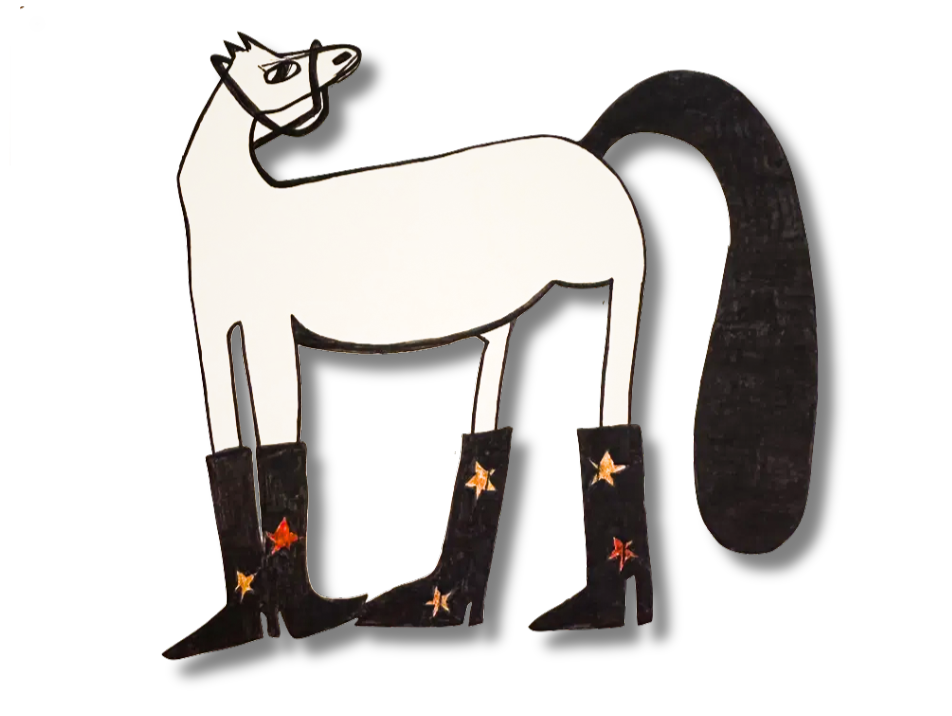
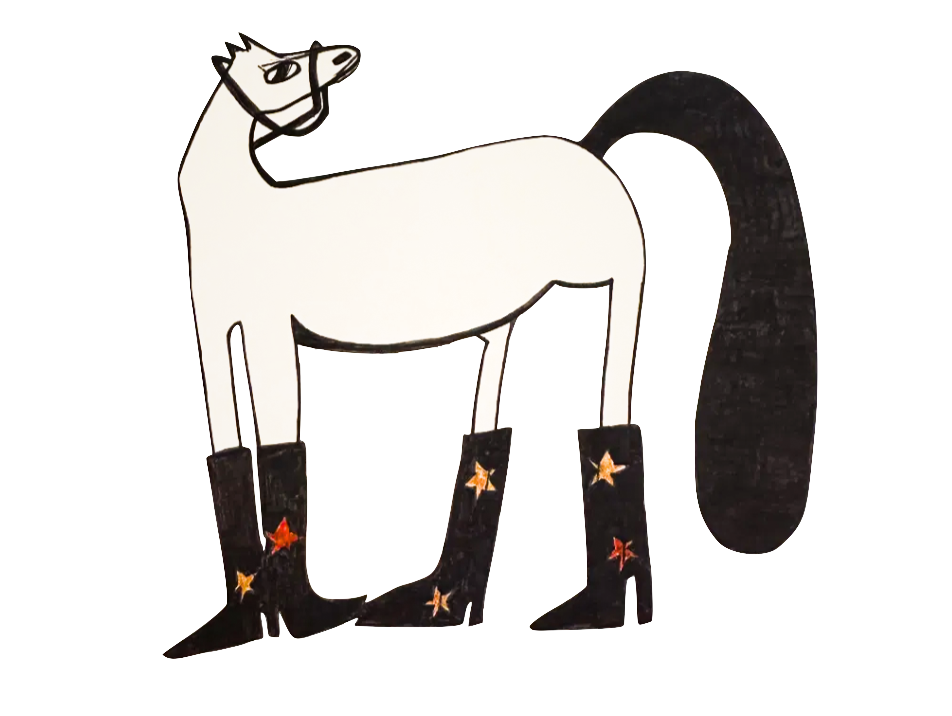
feat: landing page final

diff --git a/src/components/LandingPage.jsx b/src/components/LandingPage.jsx
@@ -1,0 +1,205 @@
+import { useEffect, useState } from "react"
+
+export default function LandingPage({ onEnter }) {
+  const [visible, setVisible] = useState(false)
+
+  useEffect(() => {
+    setTimeout(() => setVisible(true), 100)
+  }, [])
+
+  const fade = (delay = 0) => ({
+    transition: `opacity 900ms ${delay}ms`,
+    opacity: visible ? 1 : 0,
+  })
+
+  return (
+    <div style={{ fontFamily: "'Inter', sans-serif", background: "#F7F7F5", minHeight: "100vh" }}>
+
+      <section style={{
+        minHeight: "100vh",
+        display: "flex",
+        flexDirection: "column",
+        alignItems: "center",
+        justifyContent: "center",
+        textAlign: "center",
+        position: "relative",
+        overflow: "hidden",
+        paddingTop: "8vh",
+      }}>
+
+        <div style={{
+          ...fade(0),
+          position: "absolute",
+          fontSize: "22vw",
+          fontWeight: 800,
+          letterSpacing: "-0.05em",
+          color: "#111",
+          opacity: 0.018,
+          userSelect: "none",
+          pointerEvents: "none",
+          top: "50%",
+          left: "50%",
+          transform: "translate(-50%, -50%)",
+          whiteSpace: "nowrap",
+          lineHeight: 1,
+        }}>
+          DEBRIEF
+        </div>
+
+        <div style={{
+          display: "flex", flexDirection: "column",
+          alignItems: "center", gap: 0,
+          position: "relative", zIndex: 1,
+        }}>
+
+          <div style={{ ...fade(0), marginBottom: 4 }}>
+            <img
+              src="/horse.png"
+              alt=""
+              style={{ width: 96, height: 96, objectFit: "contain", mixBlendMode: "multiply" }}
+            />
+          </div>
+
+          <div style={{ ...fade(150), marginBottom: 28 }}>
+            <span style={{
+              fontWeight: 800, fontSize: 36, color: "#111",
+              letterSpacing: "-0.04em", display: "block",
+            }}>
+              Debrief
+            </span>
+          </div>
+
+          <p style={{
+            ...fade(350),
+            fontSize: 13, color: "#8A8A8A", lineHeight: 1.65,
+            maxWidth: 280, margin: 0,
+          }}>
+            You spend your career building products.<br />
+            Now build a strategy for finding your next one.
+          </p>
+
+          <div style={{ ...fade(550), marginTop: 24 }}>
+            <button
+              onClick={onEnter}
+              style={{
+                background: "none", border: "none", cursor: "pointer",
+                fontFamily: "monospace", fontSize: 10, letterSpacing: "0.12em",
+                textTransform: "uppercase", color: "#8A8A8A", padding: 0,
+                transition: "color 200ms",
+              }}
+              onMouseEnter={e => e.target.style.color = "#111"}
+              onMouseLeave={e => e.target.style.color = "#8A8A8A"}
+            >
+              Get started →
+            </button>
+          </div>
+        </div>
+
+        <div style={{
+          ...fade(900),
+          position: "absolute",
+          bottom: 96,
+          left: "50%",
+          transform: "translateX(-50%)",
+          display: "flex",
+          flexDirection: "column",
+          alignItems: "center",
+          gap: 6,
+        }}>
+          <span style={{
+            fontFamily: "monospace", fontSize: 8, letterSpacing: "0.14em",
+            textTransform: "uppercase", color: "#C4C4BE",
+          }}>scroll</span>
+          <div style={{
+            width: 1, height: 32,
+            background: "linear-gradient(to bottom, #C4C4BE, transparent)",
+          }} />
+        </div>
+      </section>
+
+      <section style={{
+        borderTop: "1px solid #E8E8E4",
+        padding: "96px 48px",
+        maxWidth: 680,
+        margin: "0 auto",
+      }}>
+        <p style={{
+          fontFamily: "monospace", fontSize: 9, letterSpacing: "0.16em",
+          textTransform: "uppercase", color: "#C4C4BE",
+          marginBottom: 64, textAlign: "center",
+        }}>
+          How it works
+        </p>
+
+        <div style={{ display: "flex", flexDirection: "column" }}>
+          {[
+            { step: "01", label: "Track", title: "Add a role in seconds", desc: "Paste any job posting. Claude extracts the company, role, salary, and what kind of PM they're actually looking for — including how well it fits your CV." },
+            { step: "02", label: "Brief", title: "Walk in prepared", desc: "Before every interview, run a briefing. Debrief searches the web for company news, decodes the role, researches your interviewer, and hands you talking points and an opening question." },
+            { step: "03", label: "Debrief", title: "Learn from every conversation", desc: "Paste your interview transcript from Granola. Get a score, coaching on what went well and what to sharpen, and a signal on where this is heading." },
+            { step: "04", label: "Negotiate", title: "Don't leave money on the table", desc: "When an offer lands, Claude analyses your whole pipeline — salary signals, competing offers, late-stage interviews — and builds a negotiation strategy with a script you can actually use." },
+          ].map((item, i) => (
+            <div key={item.step} style={{
+              display: "grid", gridTemplateColumns: "56px 1fr", gap: "0 40px",
+              paddingBottom: i < 3 ? 56 : 0,
+              borderBottom: i < 3 ? "1px solid #E8E8E4" : "none",
+              marginBottom: i < 3 ? 56 : 0,
+            }}>
+              <div style={{ display: "flex", flexDirection: "column", alignItems: "center", paddingTop: 2 }}>
+                <span style={{ fontFamily: "monospace", fontSize: 9, color: "#C4C4BE", letterSpacing: "0.06em", marginBottom: 12 }}>
+                  {item.step}
+                </span>
+                {i < 3 && <div style={{ width: 1, flex: 1, background: "#E8E8E4", minHeight: 32 }} />}
+              </div>
+              <div>
+                <span style={{
+                  fontFamily: "monospace", fontSize: 9, letterSpacing: "0.14em",
+                  textTransform: "uppercase", color: "#D63C2A", display: "block", marginBottom: 6,
+                }}>
+                  {item.label}
+                </span>
+                <h3 style={{ fontSize: 14, fontWeight: 700, color: "#111", letterSpacing: "-0.02em", marginBottom: 8 }}>
+                  {item.title}
+                </h3>
+                <p style={{ fontSize: 13, color: "#8A8A8A", lineHeight: 1.7, maxWidth: 420 }}>
+                  {item.desc}
+                </p>
+              </div>
+            </div>
+          ))}
+        </div>
+
+        <div style={{ textAlign: "center", marginTop: 72 }}>
+          <button
+            onClick={onEnter}
+            style={{
+              background: "none", border: "none", cursor: "pointer",
+              fontFamily: "monospace", fontSize: 10, letterSpacing: "0.12em",
+              textTransform: "uppercase", color: "#8A8A8A",
+              transition: "color 200ms",
+            }}
+            onMouseEnter={e => e.target.style.color = "#111"}
+            onMouseLeave={e => e.target.style.color = "#8A8A8A"}
+          >
+            Get started →
+          </button>
+        </div>
+      </section>
+
+      <footer style={{
+        borderTop: "1px solid #E8E8E4",
+        padding: "20px 48px", marginTop: 80,
+        display: "flex", alignItems: "center", justifyContent: "space-between",
+      }}>
+        <div style={{ display: "flex", alignItems: "center", gap: 8 }}>
+          <img src="/horse.png" alt="" style={{ width: 14, height: 14, objectFit: "contain", mixBlendMode: "multiply", opacity: 0.5 }} />
+          <span style={{ fontFamily: "monospace", fontSize: 9, color: "#C4C4BE", letterSpacing: "0.08em", textTransform: "uppercase" }}>Debrief</span>
+        </div>
+        <div style={{ display: "flex", gap: 32 }}>
+          <span style={{ fontFamily: "monospace", fontSize: 9, color: "#C4C4BE", letterSpacing: "0.08em", textTransform: "uppercase" }}>Mind the Product Hackathon 2026</span>
+          <span style={{ fontFamily: "monospace", fontSize: 9, color: "#C4C4BE", letterSpacing: "0.08em", textTransform: "uppercase" }}>Powered by Claude</span>
+        </div>
+      </footer>
+
+    </div>
+  )
+}

diff --git a/src/App.jsx b/src/App.jsx
@@ -1,5 +1,6 @@
 import { useState, useEffect } from "react"
 import BriefingPanel from "./components/BriefingPanel"
+import LandingPage from "./components/LandingPage"
 
 const STORAGE_KEY = "debrief_jobs"
 const CV_STORAGE_KEY = "debrief_cv"
@@ -437,6 +438,7 @@ function App() {
   const [emailLoading, setEmailLoading] = useState(false)
   const [emailResult, setEmailResult] = useState(null)
   const [briefingRole, setBriefingRole] = useState(null)
+  const [showLanding, setShowLanding] = useState(() => !localStorage.getItem("debrief_visited"))
 
   useEffect(() => {
     localStorage.setItem(STORAGE_KEY, JSON.stringify(jobs))
@@ -593,7 +595,12 @@ const allFiltered = (activeStage === "Closed"
     acc[s] = jobs.filter(j => j.stage === s).length
     return acc
   }, {})
-
+if (showLanding) {
+  return <LandingPage onEnter={() => {
+    localStorage.setItem("debrief_visited", "true")
+    setShowLanding(false)
+  }} />
+}
   return (
     <div className="min-h-screen bg-[#F7F7F5] font-sans" style={{ fontFamily: "'Inter', sans-serif" }}>
 